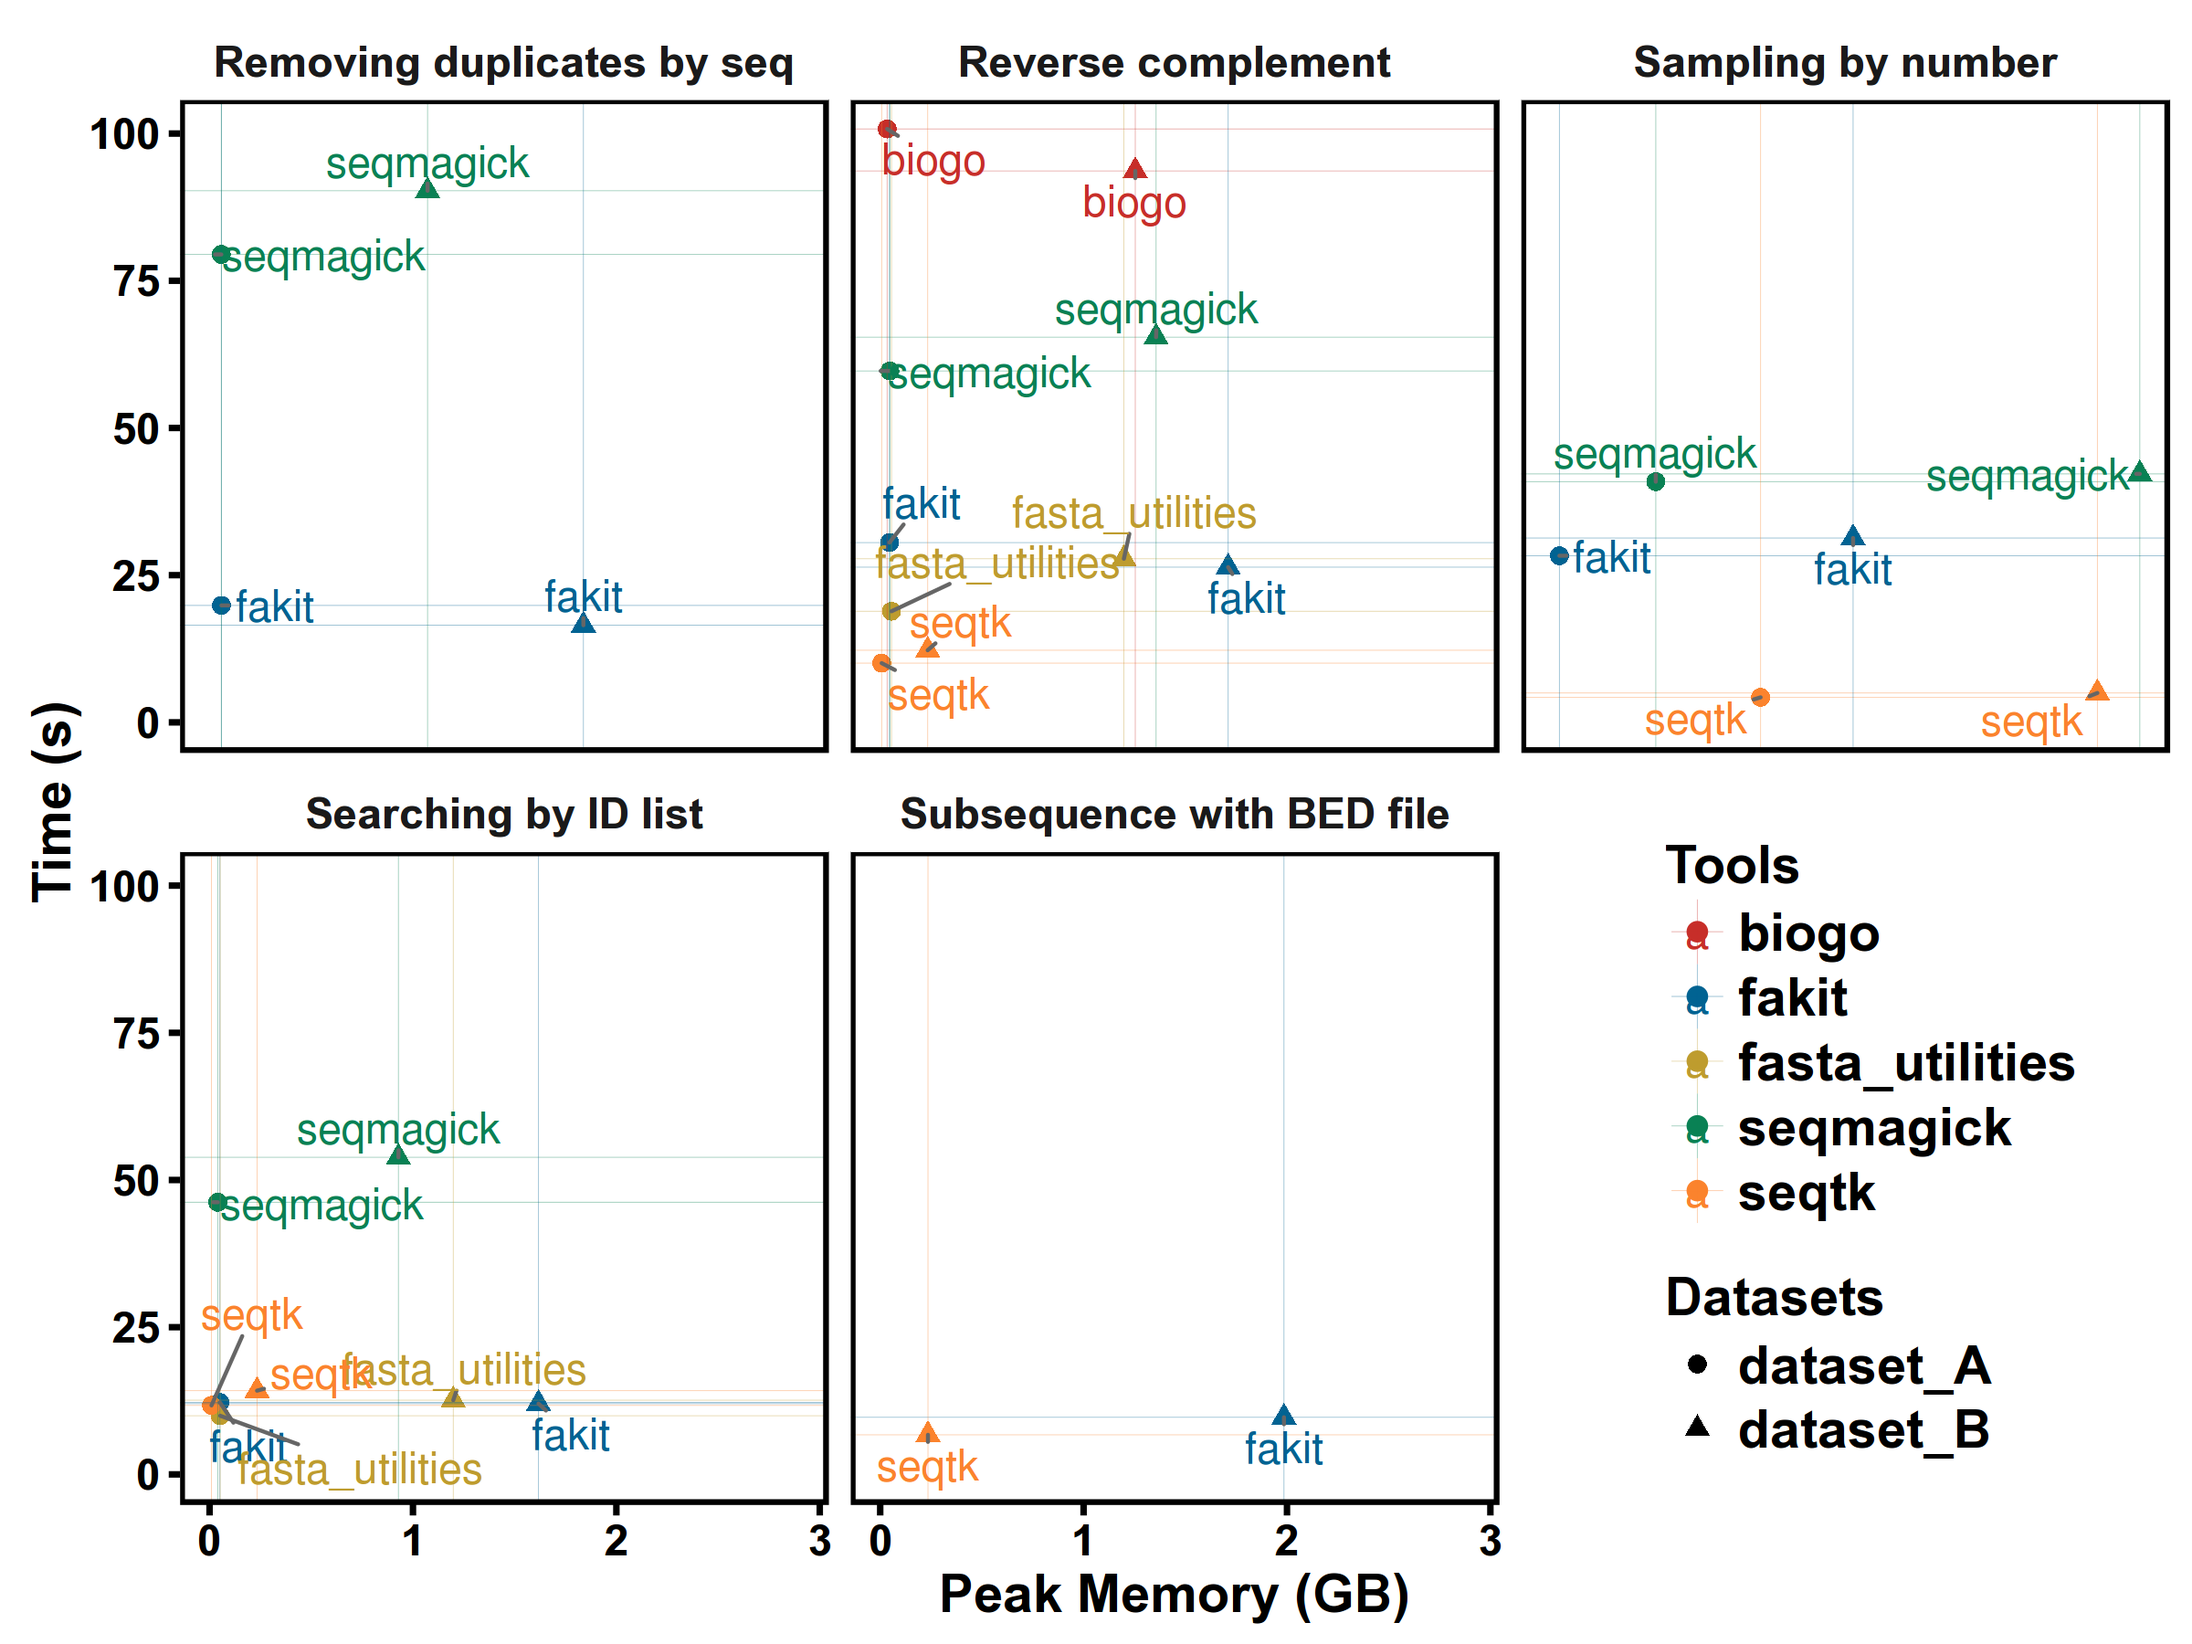
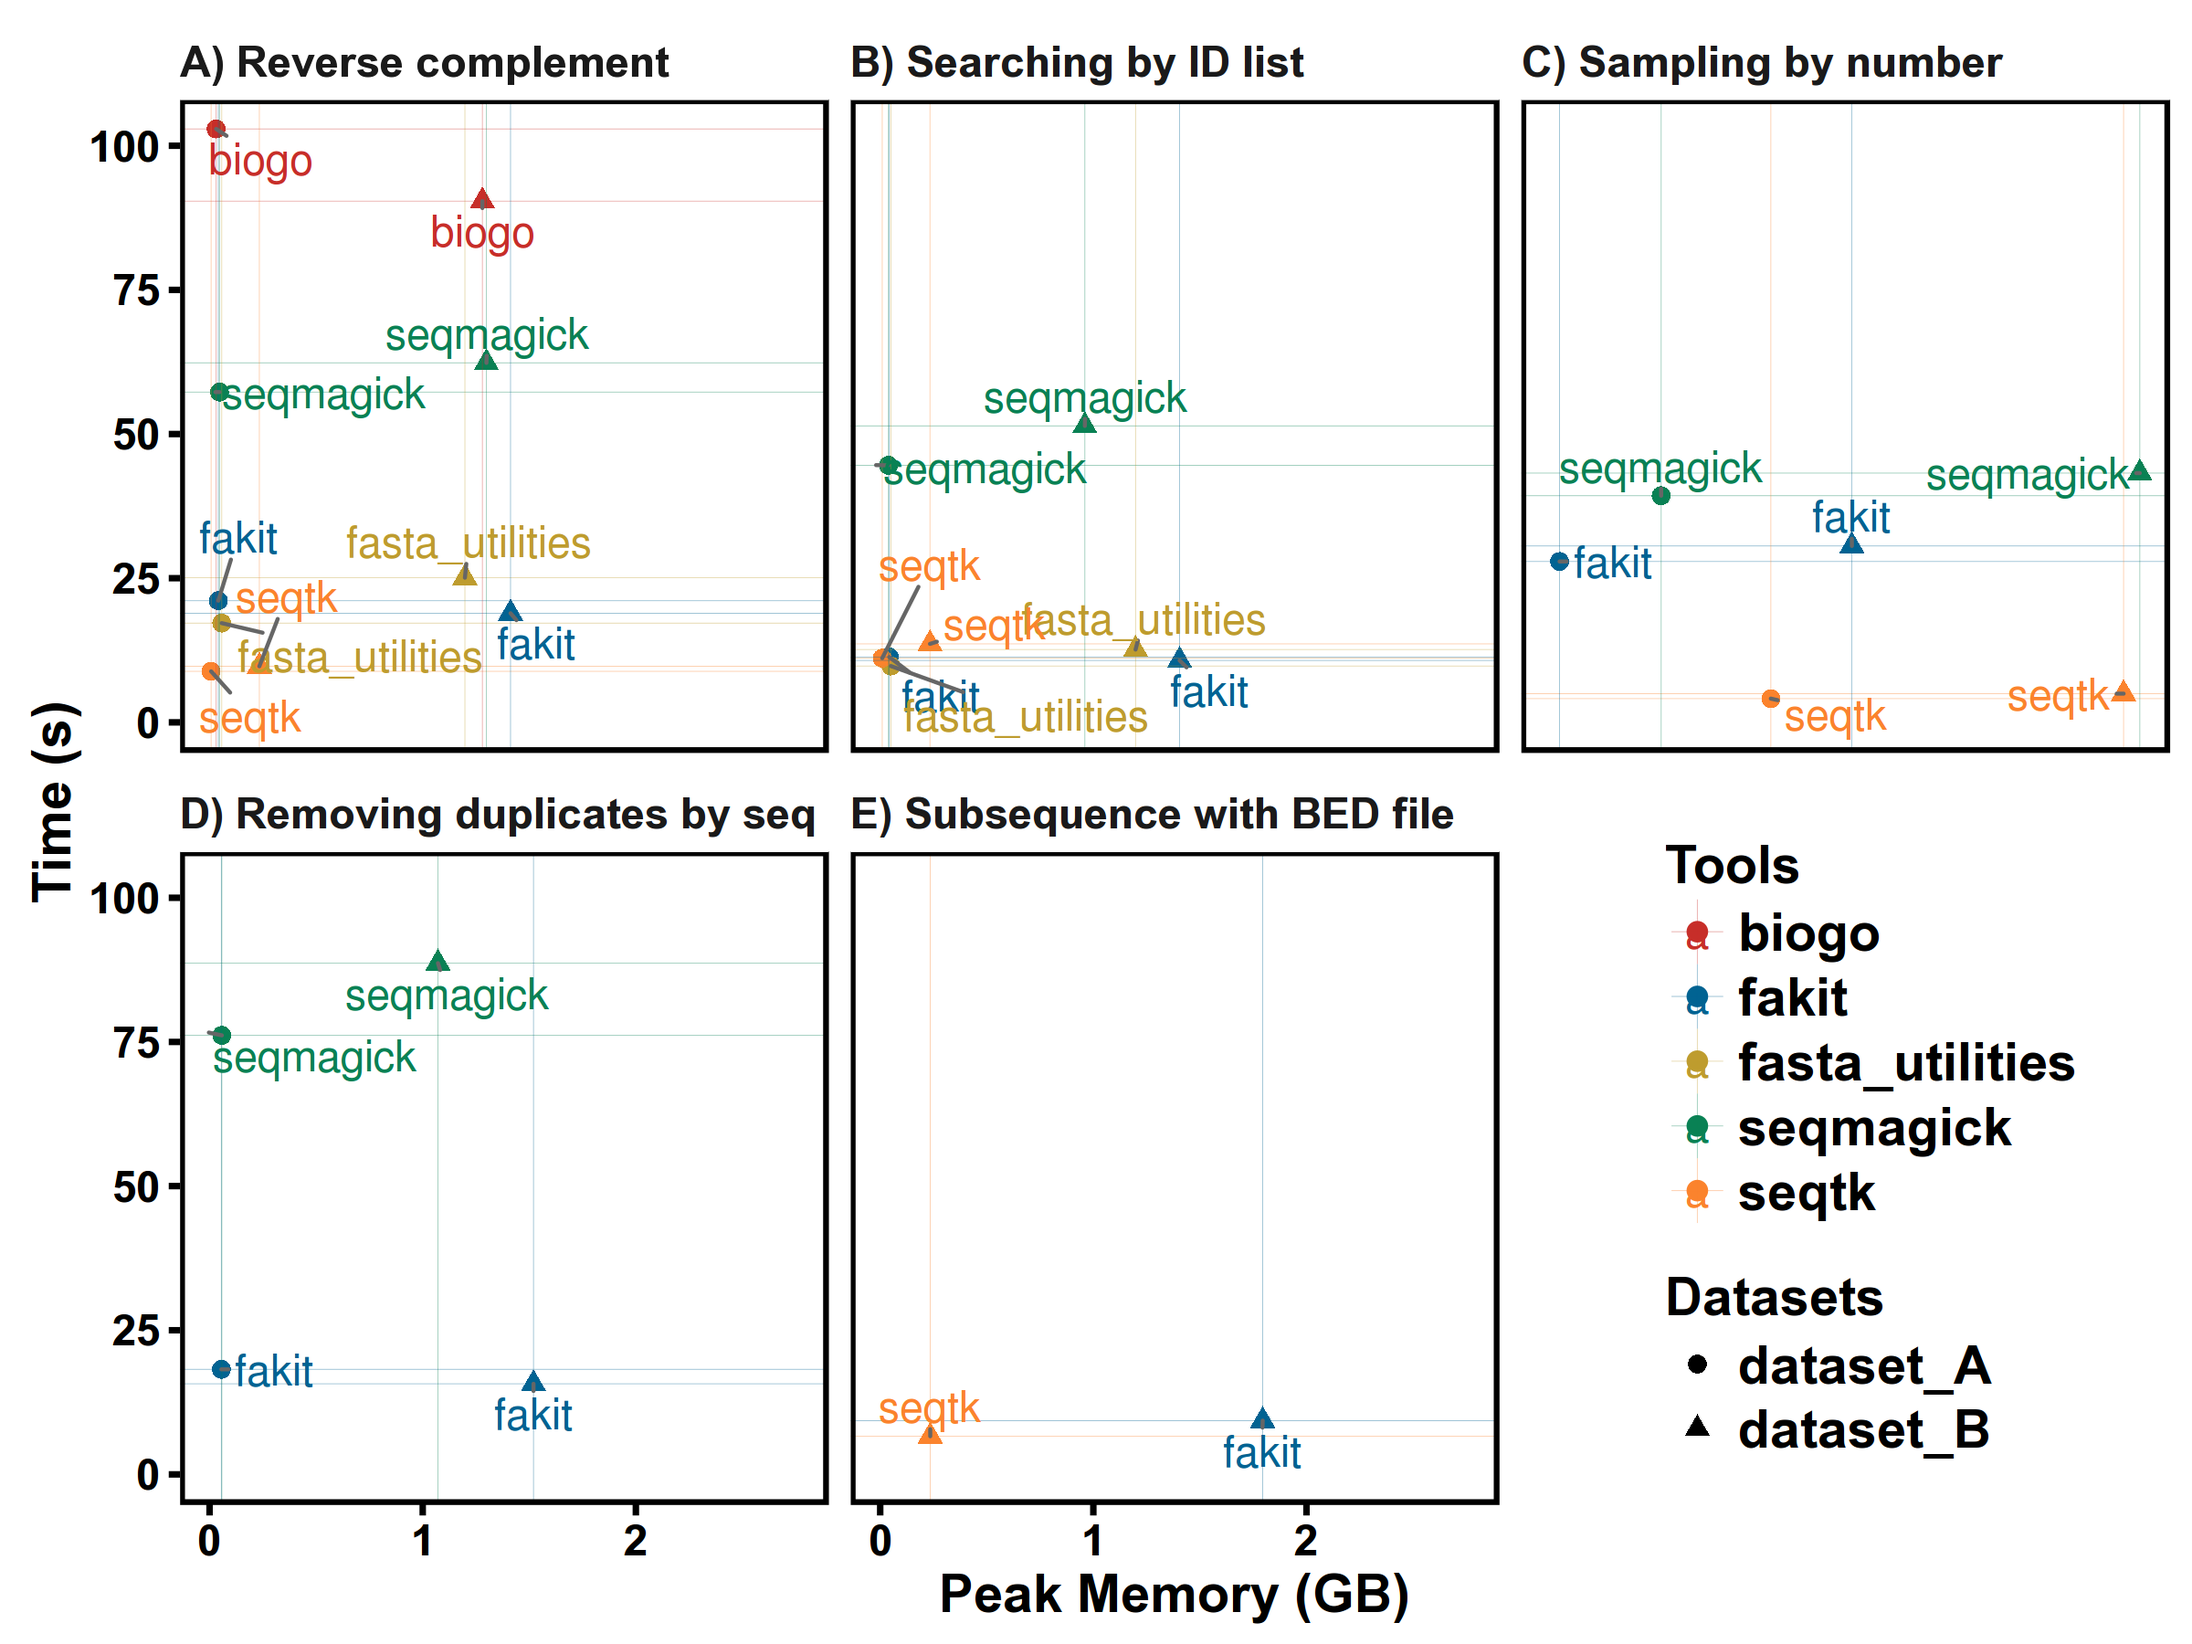
v0.2.3

diff --git a/benchmark/index.html b/benchmark/index.html
@@ -156,7 +156,7 @@
 <h2 id="softwares">Softwares</h2>
 <ol>
 <li><a href="https://github.com/shenwei356/fakit">fakit</a>. (Go).
-   Version <a href="https://github.com/shenwei356/fakit/releases/tag/v0.2.2">v0.2.2</a>.</li>
+   Version <a href="https://github.com/shenwei356/fakit/releases/tag/v0.2.3">v0.2.3</a>.</li>
 <li><a href="https://github.com/jimhester/fasta_utilities">fasta_utilities</a>. (Perl).
    Version <a href="https://github.com/jimhester/fasta_utilities/tree/3dcc0bc6bf1e97839476221c26984b1789482579">3dcc0bc</a>.
    Lots of dependencies to install.</li>
@@ -277,7 +277,7 @@ to compute running time and peak memory usage of a process.</p>
 <td>--</td>
 <td>--</td>
 <td>Yes</td>
-<td>Yes</td>
+<td>--</td>
 </tr>
 <tr>
 <td align="left">Sample seqs</td>
@@ -481,14 +481,11 @@ the peak memory may depends on size of sampled sequences.</p>
 <p><a href="https://github.com/shenwei356/fakit/blob/master/benchmark/run_benchmark_05_subseq_with_bed.sh">Commands</a></p>
 <h2 id="results">Results</h2>
 <p><img alt="benchmark-5tests.csv.png" src="../benchmark/benchmark.5tests.csv.png" /></p>
-<p>Performance of other functions in fakit:</p>
-<p><img alt="benchmark-fakit.csv.png" src="../benchmark/benchmark.fakit.csv.png" /></p>
 <h3 id="test-of-multiple-threads">Test of multiple threads:</h3>
 <p>From the results, 2 threads/CPU is enough, so the default threads of fakit is 2.</p>
 <p><img alt="benchmark-5tests.csv.png" src="../benchmark/fakit_multi_threads/benchmark.5tests.csv.png" /></p>
-<p><img alt="benchmark-fakit.csv.png" src="../benchmark/fakit_multi_threads/benchmark.fakit.csv.png" /></p>
 <h3 id="tests-on-different-file-sizes">Tests on different file sizes</h3>
-<p>Files are generated by replicating chr1 for N times.</p>
+<p>Files are generated by replicating Human genome chr1 for N times.</p>
 <p><img alt="benchmark.fakit.files_size.csv.png" src="../benchmark/fakit_file_size/benchmark.fakit.files_size.csv.png" /></p>
 <div id="disqus_thread"></div>
 

diff --git a/download/index.html b/download/index.html
@@ -152,8 +152,9 @@
   in <a href="https://github.com/shenwei356/fakit/releases">release</a> page.</p>
 <h2 id="current-version">Current Version</h2>
 <ul>
-<li><a href="https://github.com/shenwei356/fakit/releases/tag/v0.2.2">fakit v0.2.2</a><ul>
-<li>reduce memory occupation of subcommands that use FASTA index</li>
+<li><a href="https://github.com/shenwei356/fakit/releases/tag/v0.2.3">fakit v0.2.3</a><ul>
+<li>reduce memory occupation by avoid copy data when convert <code>string</code> to <code>[]byte</code></li>
+<li>speedup reverse-complement by avoid repeatly calling functions</li>
 </ul>
 </li>
 </ul>
@@ -181,6 +182,10 @@ echo export PATH=\$PATH:/PATH/OF/fakit &gt;&gt; ~/.bashrc
 </ol>
 <h2 id="previous-versions">Previous Versions</h2>
 <ul>
+<li><a href="https://github.com/shenwei356/fakit/releases/tag/v0.2.2">fakit v0.2.2</a><ul>
+<li>reduce memory occupation of subcommands that use FASTA index</li>
+</ul>
+</li>
 <li><a href="https://github.com/shenwei356/fakit/releases/tag/v0.2.1">fakit v0.2.1</a><ul>
 <li>improve performance of outputing.</li>
 <li>fix bug of <code>fakit seq -g</code> for FASTA fromat</li>

diff --git a/index.html b/index.html
@@ -300,7 +300,7 @@ therefore, it could be easily used in command-line pipe.</p>
 <td>--</td>
 <td>--</td>
 <td>Yes</td>
-<td>Yes</td>
+<td>--</td>
 </tr>
 <tr>
 <td align="left">Sample seqs</td>
@@ -603,8 +603,6 @@ dataset_A.fa   FASTA        DNA          67,748        56       41,442.5     5,9
 dataset_B.fa   FASTA        DNA             194       970   15,978,096.5   248,956,422
 </code></pre>
 <p><img alt="benchmark-5tests.csv.png" src="./benchmark/benchmark.5tests.csv.png" /></p>
-<p>Performance of other functions in fakit:</p>
-<p><img alt="benchmark-fakit.csv.png" src="./benchmark/benchmark.fakit.csv.png" /></p>
 <h2 id="contact">Contact</h2>
 <p>Email me for any problem when using fakit. shenwei356(at)gmail.com</p>
 <p><a href="https://github.com/shenwei356/fakit/issues">Create an issue</a> to report bugs,
@@ -657,5 +655,5 @@ propose new functions or ask for help.</p>
 
 <!--
 MkDocs version : 0.15.3
-Build Date UTC : 2016-05-02 16:59:33.285260
+Build Date UTC : 2016-05-06 08:15:54.292857
 -->

diff --git a/usage/index.html b/usage/index.html
@@ -280,7 +280,7 @@ reproduced in different environments with same random seed.</p>
 <p>Usage</p>
 <pre><code>fakit -- a cross-platform and efficient suit for FASTA/Q file manipulation
 
-Version: 0.2.2
+Version: 0.2.3
 
 Author: Wei Shen &lt;shenwei356@gmail.com&gt;
 
